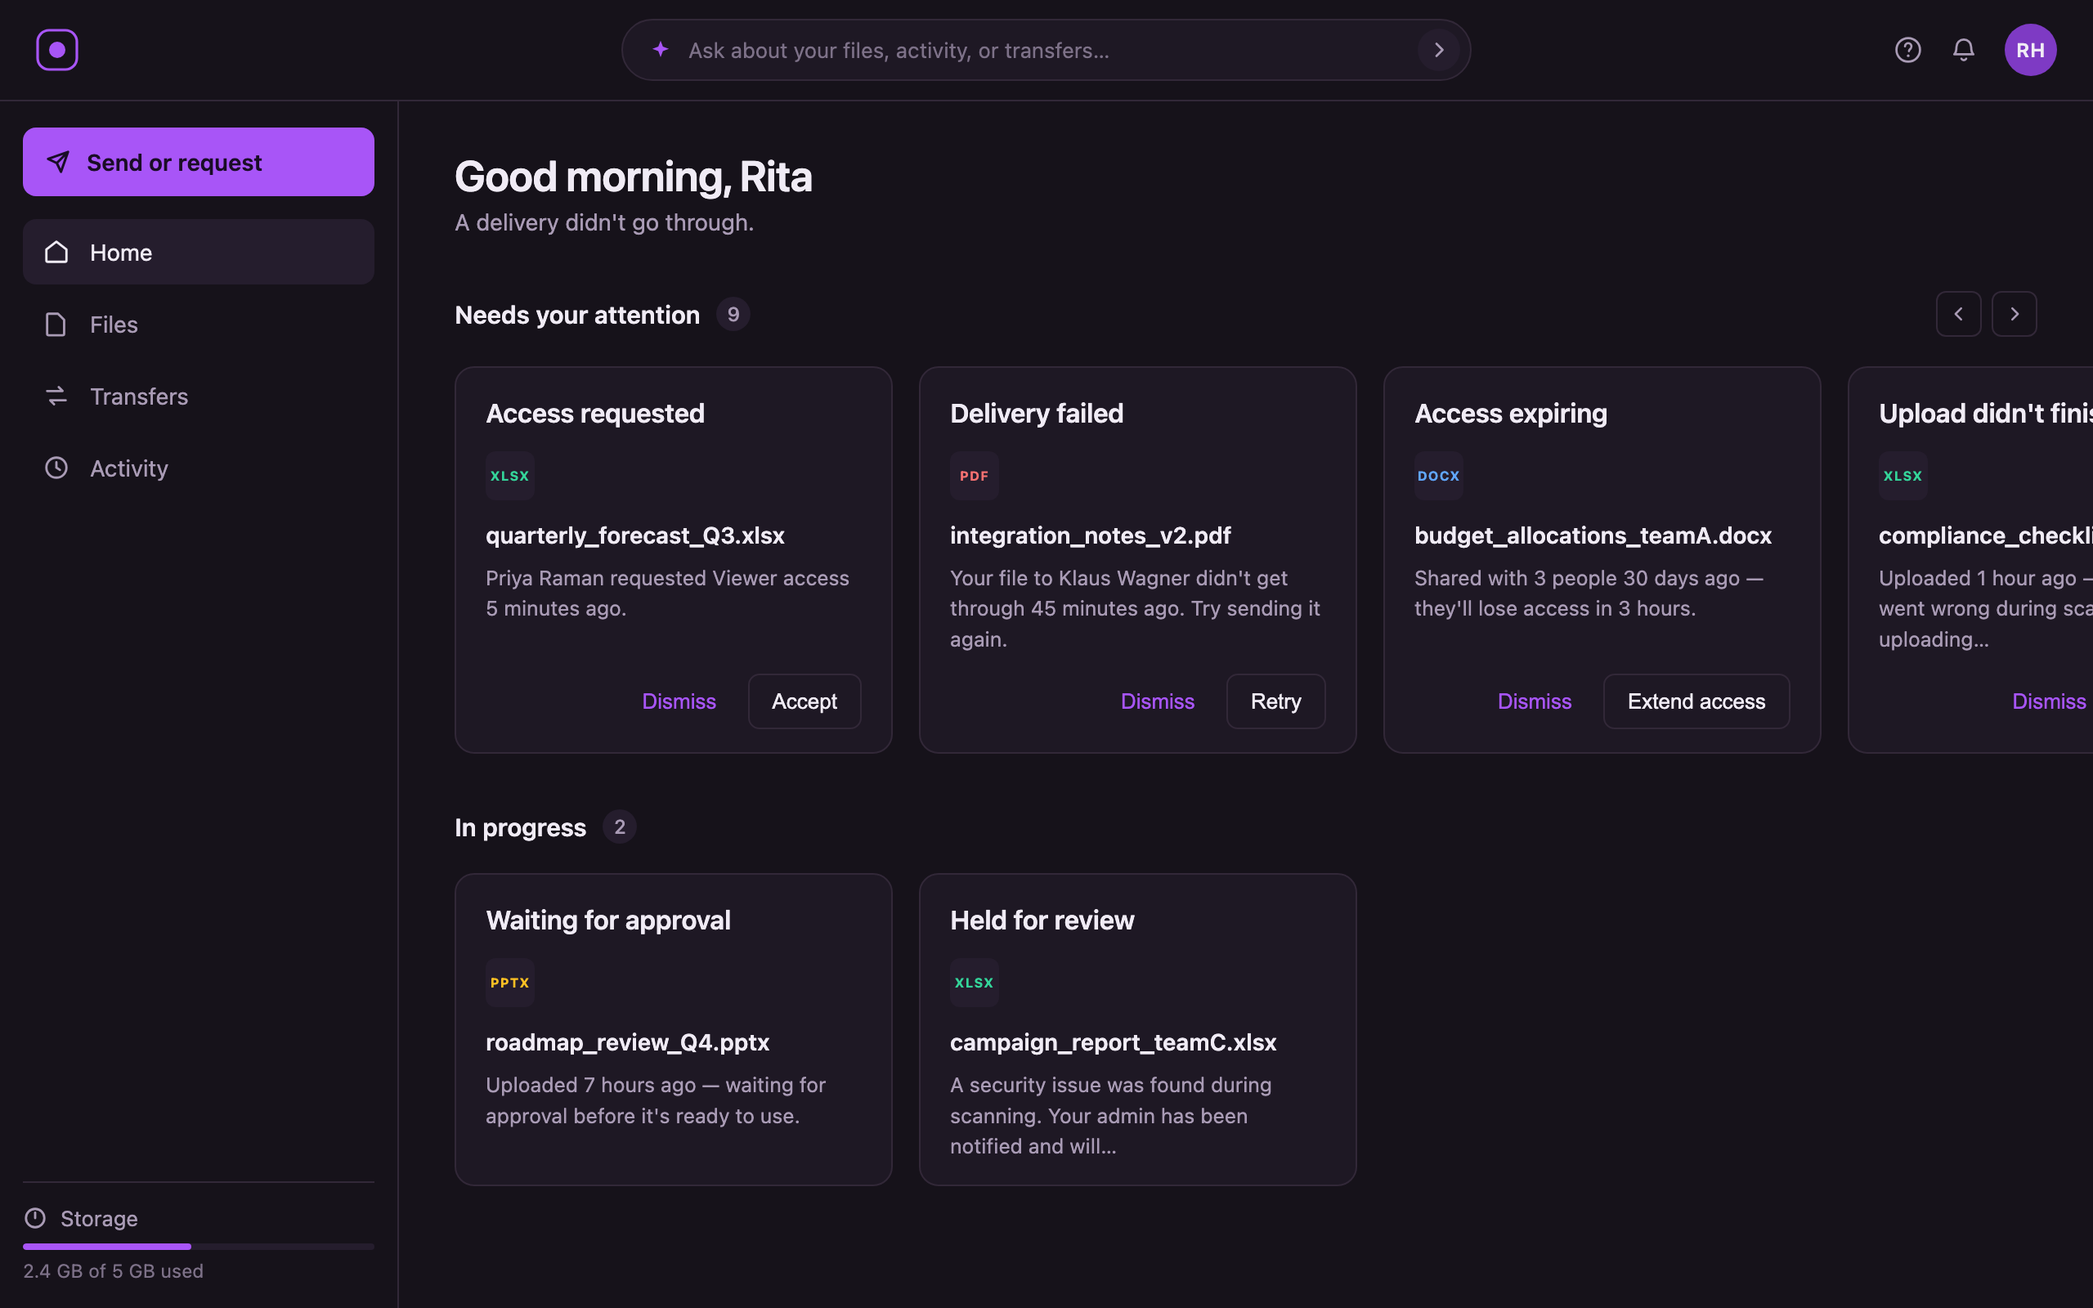
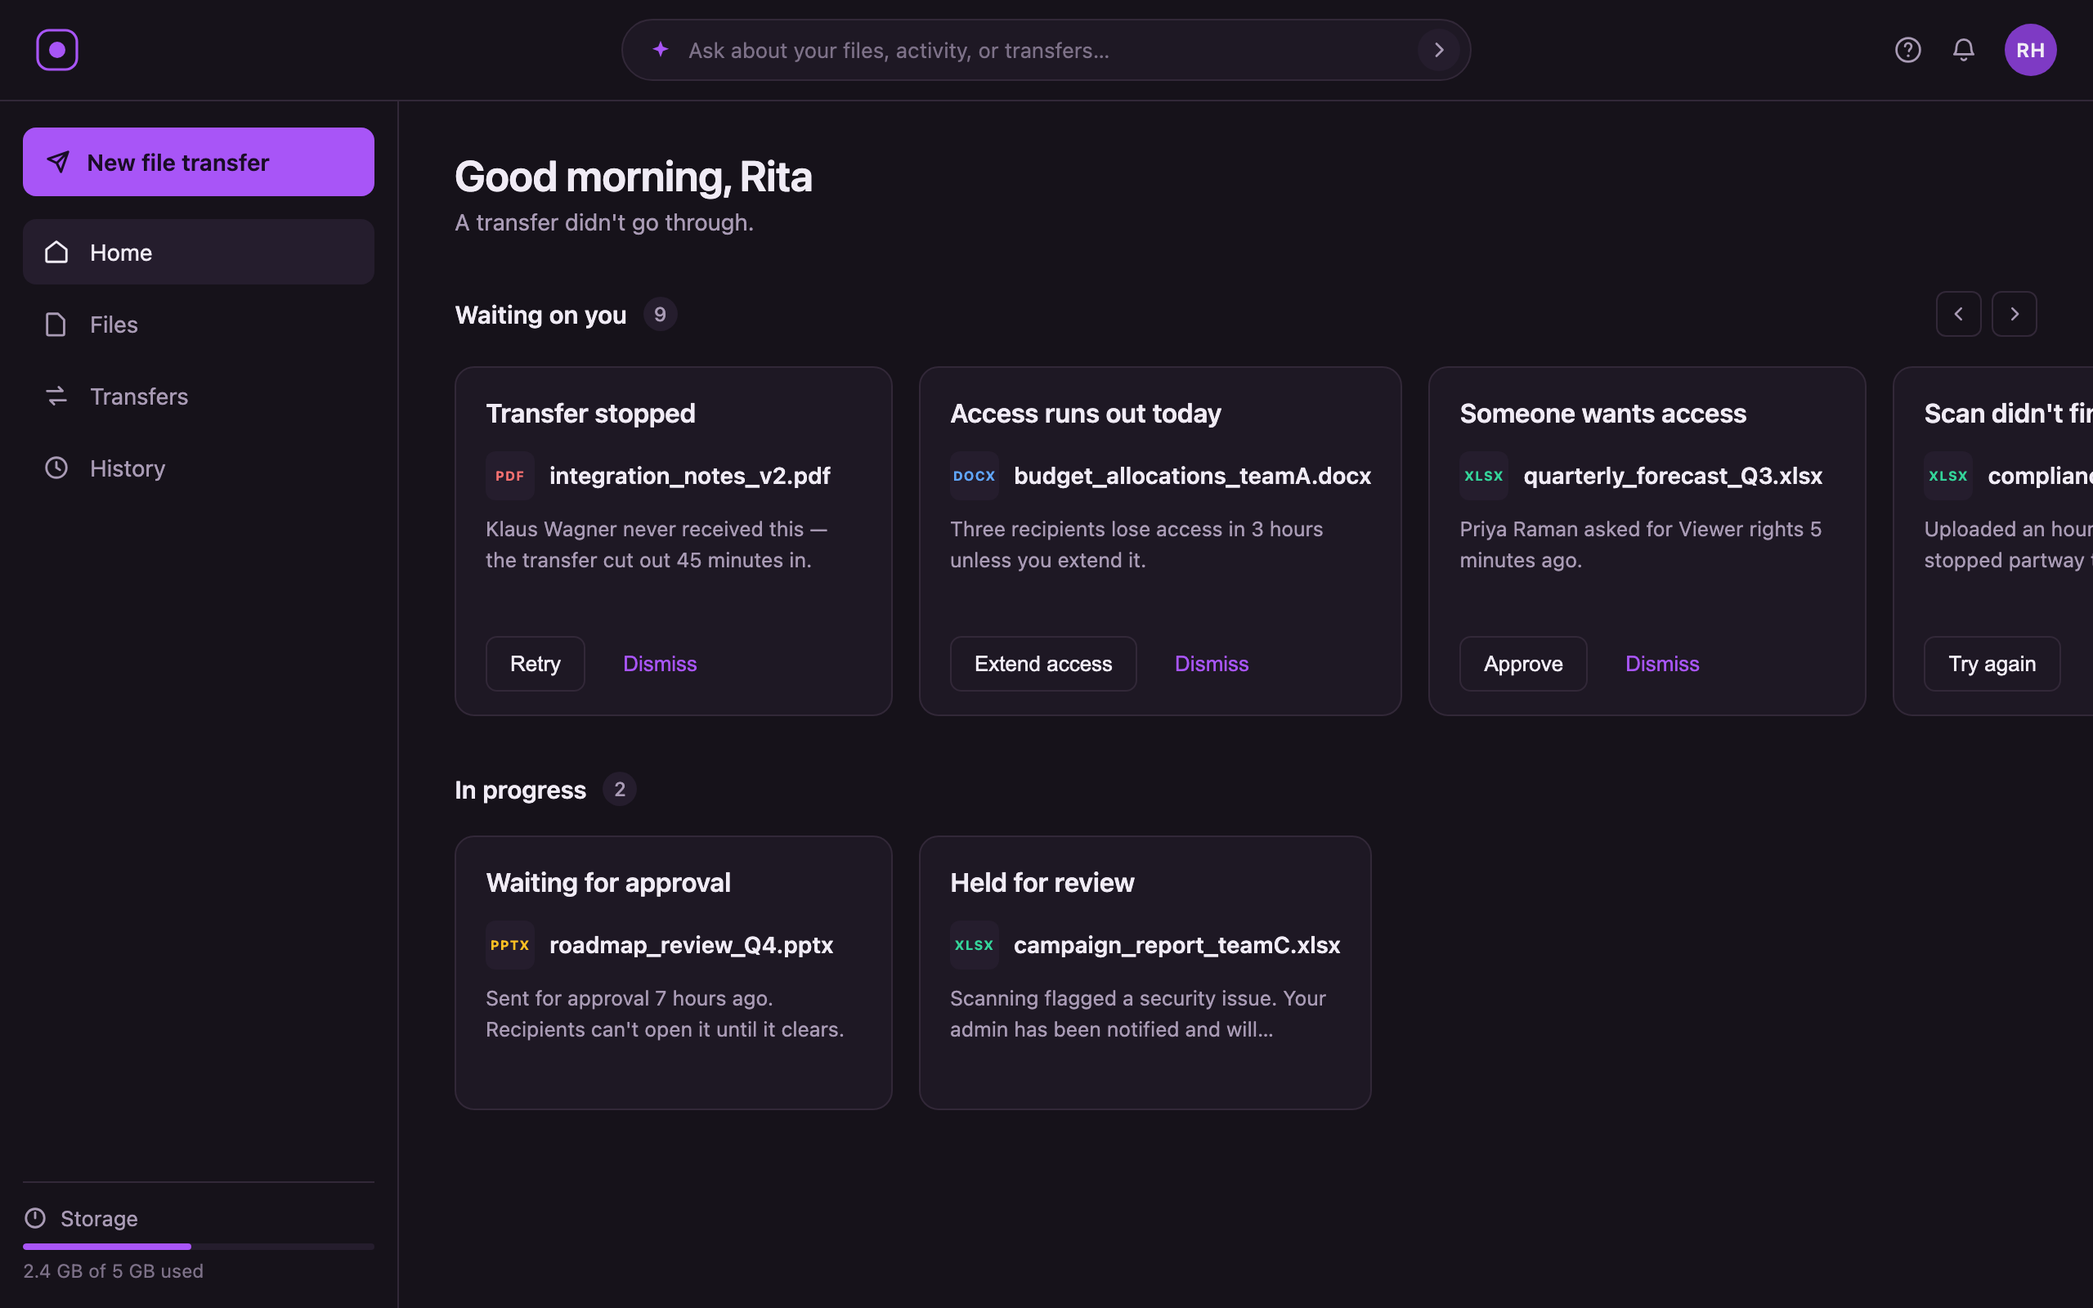
Rework the file sharing dashboard screen
Moves the screen further from the Figma original and tightens the card
layout:

- "Send or request" is now "New file transfer", "Activity" is "History"
- "Needs your attention" is "Waiting on you"
- Attention cards reordered most-urgent-first and recopied
- File type badge sits inline with the filename instead of stacked
  above it, so a card reads as one file row
- Card actions are left-aligned with the outlined action first and
  Dismiss after it
- Filenames truncate with an ellipsis instead of breaking mid-word,
  which was leaving the cards at ragged heights

card.png is regenerated from the same markup at a 1280x800 viewport.

diff --git a/tools/case-study-mockups/secure-file-sharing/screen-dashboard.html b/tools/case-study-mockups/secure-file-sharing/screen-dashboard.html
@@ -4,7 +4,7 @@
 <meta charset="utf-8">
 <link rel="stylesheet" href="base.css">
 <style>
-  body { height: 790px; }
+  body { height: 720px; }
   .attn-row { display: flex; gap: 16px; margin-top: 18px; }
   .card {
     flex: 0 0 268px;
@@ -16,10 +16,18 @@
     min-height: 214px;
   }
   .card h3 { font-size: 16px; font-weight: 600; letter-spacing: -0.1px; }
-  .card .fname { font-size: 14px; font-weight: 600; margin-top: 12px; word-break: break-all; line-height: 1.35; }
-  .card .desc { font-size: 12.5px; color: var(--text-dim); line-height: 1.5; margin-top: 7px; }
-  .card .acts { margin-top: auto; display: flex; justify-content: flex-end; align-items: center; gap: 4px; padding-top: 12px; }
-  .card .filetag { margin-top: 14px; }
+  /* Badge sits inline with the filename rather than stacked above it, so the
+     card reads as one file row instead of three separate stacked blocks. */
+  .card .fileline { display: flex; align-items: center; gap: 9px; margin-top: 14px; min-width: 0; }
+  /* Truncate rather than wrap: a long filename breaking mid-word left the
+     cards at ragged heights and read as a layout bug rather than a filename. */
+  .card .fname {
+    font-size: 14px; font-weight: 600; line-height: 1.35;
+    min-width: 0; overflow: hidden; text-overflow: ellipsis; white-space: nowrap;
+  }
+  .card .desc { font-size: 12.5px; color: var(--text-dim); line-height: 1.5; margin-top: 8px; }
+  .card .acts { margin-top: auto; display: flex; justify-content: flex-start; align-items: center; gap: 8px; padding-top: 14px; }
+  .card .filetag { flex: 0 0 30px; }
   .sec-head { display: flex; align-items: center; gap: 10px; margin-top: 34px; }
   .arrows { margin-left: auto; display: flex; gap: 6px; color: var(--text-dim); }
   .arrows span {
@@ -55,7 +63,7 @@
   <div class="sidebar">
     <div class="cta">
       <svg width="15" height="15" viewBox="0 0 16 16" fill="none"><path d="M14.5 1.5L7.2 8.8M14.5 1.5l-4.6 13-2.7-5.7L1.5 6.1z" stroke="#1a0d26" stroke-width="1.6" stroke-linejoin="round"/></svg>
-      Send or request
+      New file transfer
     </div>
     <div class="navitem active">
       <svg width="17" height="17" viewBox="0 0 18 18" fill="none"><path d="M2.5 7.5L9 2.5l6.5 5v7a1 1 0 01-1 1h-11a1 1 0 01-1-1z" stroke="currentColor" stroke-width="1.5" stroke-linejoin="round"/></svg>
@@ -71,7 +79,7 @@
     </div>
     <div class="navitem">
       <svg width="17" height="17" viewBox="0 0 18 18" fill="none"><circle cx="9" cy="9" r="6.5" stroke="currentColor" stroke-width="1.5"/><path d="M9 5.5V9l2.3 1.5" stroke="currentColor" stroke-width="1.5" stroke-linecap="round"/></svg>
-      Activity
+      History
     </div>
 
     <div class="sidebar-foot">
@@ -86,10 +94,10 @@
 
   <div class="main">
     <h1>Good morning, Rita</h1>
-    <div class="sub">A delivery didn't go through.</div>
+    <div class="sub">A transfer didn't go through.</div>
 
     <div class="sec-head">
-      <span style="font-size:15px;font-weight:600;">Needs your attention</span>
+      <span style="font-size:15px;font-weight:600;">Waiting on you</span>
       <span class="count">9</span>
       <div class="arrows">
         <span><svg width="11" height="11" viewBox="0 0 16 16" fill="none"><path d="M10 3L5 8l5 5" stroke="currentColor" stroke-width="1.8" stroke-linecap="round" stroke-linejoin="round"/></svg></span>
@@ -99,43 +107,53 @@
 
     <div class="attn-row">
       <div class="card">
-        <h3>Access requested</h3>
-        <div class="filetag t-xlsx">XLSX</div>
-        <div class="fname">quarterly_forecast_Q3.xlsx</div>
-        <div class="desc">Priya Raman requested Viewer access 5 minutes ago.</div>
-        <div class="acts"><button class="btn btn-ghost">Dismiss</button><button class="btn">Accept</button></div>
+        <h3>Transfer stopped</h3>
+        <div class="fileline">
+          <div class="filetag t-pdf">PDF</div>
+          <div class="fname">integration_notes_v2.pdf</div>
+        </div>
+        <div class="desc">Klaus Wagner never received this — the transfer cut out 45 minutes in.</div>
+        <div class="acts"><button class="btn">Retry</button><button class="btn btn-ghost">Dismiss</button></div>
       </div>
 
       <div class="card">
-        <h3>Delivery failed</h3>
-        <div class="filetag t-pdf">PDF</div>
-        <div class="fname">integration_notes_v2.pdf</div>
-        <div class="desc">Your file to Klaus Wagner didn't get through 45 minutes ago. Try sending it again.</div>
-        <div class="acts"><button class="btn btn-ghost">Dismiss</button><button class="btn">Retry</button></div>
+        <h3>Access runs out today</h3>
+        <div class="fileline">
+          <div class="filetag t-docx">DOCX</div>
+          <div class="fname">budget_allocations_teamA.docx</div>
+        </div>
+        <div class="desc">Three recipients lose access in 3 hours unless you extend it.</div>
+        <div class="acts"><button class="btn">Extend access</button><button class="btn btn-ghost">Dismiss</button></div>
       </div>
 
       <div class="card">
-        <h3>Access expiring</h3>
-        <div class="filetag t-docx">DOCX</div>
-        <div class="fname">budget_allocations_teamA.docx</div>
-        <div class="desc">Shared with 3 people 30 days ago — they'll lose access in 3 hours.</div>
-        <div class="acts"><button class="btn btn-ghost">Dismiss</button><button class="btn">Extend access</button></div>
+        <h3>Someone wants access</h3>
+        <div class="fileline">
+          <div class="filetag t-xlsx">XLSX</div>
+          <div class="fname">quarterly_forecast_Q3.xlsx</div>
+        </div>
+        <div class="desc">Priya Raman asked for Viewer rights 5 minutes ago.</div>
+        <div class="acts"><button class="btn">Approve</button><button class="btn btn-ghost">Dismiss</button></div>
       </div>
 
       <div class="card">
-        <h3>Upload didn't finish</h3>
-        <div class="filetag t-xlsx">XLSX</div>
-        <div class="fname">compliance_checklist.xlsx</div>
-        <div class="desc">Uploaded 1 hour ago — something went wrong during scanning. Try uploading…</div>
-        <div class="acts"><button class="btn btn-ghost">Dismiss</button><button class="btn">Try again</button></div>
+        <h3>Scan didn't finish</h3>
+        <div class="fileline">
+          <div class="filetag t-xlsx">XLSX</div>
+          <div class="fname">compliance_checklist.xlsx</div>
+        </div>
+        <div class="desc">Uploaded an hour ago, but scanning stopped partway through.</div>
+        <div class="acts"><button class="btn">Try again</button><button class="btn btn-ghost">Dismiss</button></div>
       </div>
 
       <div class="card" style="flex:0 0 200px;">
-        <h3>Cleared after…</h3>
-        <div class="filetag t-xlsx">XLSX</div>
-        <div class="fname">q2_budget_re…</div>
-        <div class="desc">This file was held and cleared by your ad…</div>
-        <div class="acts"><button class="btn btn-ghost">Dismiss</button></div>
+        <h3>Released by ad…</h3>
+        <div class="fileline">
+          <div class="filetag t-pptx">PPTX</div>
+          <div class="fname">q2_budget_re…</div>
+        </div>
+        <div class="desc">Held during scanning, then cleared by yo…</div>
+        <div class="acts"><button class="btn">Open</button></div>
       </div>
     </div>
 
@@ -145,17 +163,21 @@
     </div>
 
     <div class="attn-row">
-      <div class="card" style="min-height:186px;">
+      <div class="card" style="min-height:168px;">
         <h3>Waiting for approval</h3>
-        <div class="filetag t-pptx">PPTX</div>
-        <div class="fname">roadmap_review_Q4.pptx</div>
-        <div class="desc">Uploaded 7 hours ago — waiting for approval before it's ready to use.</div>
+        <div class="fileline">
+          <div class="filetag t-pptx">PPTX</div>
+          <div class="fname">roadmap_review_Q4.pptx</div>
+        </div>
+        <div class="desc">Sent for approval 7 hours ago. Recipients can't open it until it clears.</div>
       </div>
-      <div class="card" style="min-height:186px;">
+      <div class="card" style="min-height:168px;">
         <h3>Held for review</h3>
-        <div class="filetag t-xlsx">XLSX</div>
-        <div class="fname">campaign_report_teamC.xlsx</div>
-        <div class="desc">A security issue was found during scanning. Your admin has been notified and will…</div>
+        <div class="fileline">
+          <div class="filetag t-xlsx">XLSX</div>
+          <div class="fname">campaign_report_teamC.xlsx</div>
+        </div>
+        <div class="desc">Scanning flagged a security issue. Your admin has been notified and will…</div>
       </div>
     </div>
   </div>

diff --git a/tools/case-study-mockups/secure-file-sharing/screen-card.html b/tools/case-study-mockups/secure-file-sharing/screen-card.html
@@ -16,10 +16,18 @@
     min-height: 214px;
   }
   .card h3 { font-size: 16px; font-weight: 600; letter-spacing: -0.1px; }
-  .card .fname { font-size: 14px; font-weight: 600; margin-top: 12px; word-break: break-all; line-height: 1.35; }
-  .card .desc { font-size: 12.5px; color: var(--text-dim); line-height: 1.5; margin-top: 7px; }
-  .card .acts { margin-top: auto; display: flex; justify-content: flex-end; align-items: center; gap: 4px; padding-top: 12px; }
-  .card .filetag { margin-top: 14px; }
+  /* Badge sits inline with the filename rather than stacked above it, so the
+     card reads as one file row instead of three separate stacked blocks. */
+  .card .fileline { display: flex; align-items: center; gap: 9px; margin-top: 14px; min-width: 0; }
+  /* Truncate rather than wrap: a long filename breaking mid-word left the
+     cards at ragged heights and read as a layout bug rather than a filename. */
+  .card .fname {
+    font-size: 14px; font-weight: 600; line-height: 1.35;
+    min-width: 0; overflow: hidden; text-overflow: ellipsis; white-space: nowrap;
+  }
+  .card .desc { font-size: 12.5px; color: var(--text-dim); line-height: 1.5; margin-top: 8px; }
+  .card .acts { margin-top: auto; display: flex; justify-content: flex-start; align-items: center; gap: 8px; padding-top: 14px; }
+  .card .filetag { flex: 0 0 30px; }
   .sec-head { display: flex; align-items: center; gap: 10px; margin-top: 34px; }
   .arrows { margin-left: auto; display: flex; gap: 6px; color: var(--text-dim); }
   .arrows span {
@@ -55,7 +63,7 @@
   <div class="sidebar">
     <div class="cta">
       <svg width="15" height="15" viewBox="0 0 16 16" fill="none"><path d="M14.5 1.5L7.2 8.8M14.5 1.5l-4.6 13-2.7-5.7L1.5 6.1z" stroke="#1a0d26" stroke-width="1.6" stroke-linejoin="round"/></svg>
-      Send or request
+      New file transfer
     </div>
     <div class="navitem active">
       <svg width="17" height="17" viewBox="0 0 18 18" fill="none"><path d="M2.5 7.5L9 2.5l6.5 5v7a1 1 0 01-1 1h-11a1 1 0 01-1-1z" stroke="currentColor" stroke-width="1.5" stroke-linejoin="round"/></svg>
@@ -71,7 +79,7 @@
     </div>
     <div class="navitem">
       <svg width="17" height="17" viewBox="0 0 18 18" fill="none"><circle cx="9" cy="9" r="6.5" stroke="currentColor" stroke-width="1.5"/><path d="M9 5.5V9l2.3 1.5" stroke="currentColor" stroke-width="1.5" stroke-linecap="round"/></svg>
-      Activity
+      History
     </div>
 
     <div class="sidebar-foot">
@@ -86,10 +94,10 @@
 
   <div class="main">
     <h1>Good morning, Rita</h1>
-    <div class="sub">A delivery didn't go through.</div>
+    <div class="sub">A transfer didn't go through.</div>
 
     <div class="sec-head">
-      <span style="font-size:15px;font-weight:600;">Needs your attention</span>
+      <span style="font-size:15px;font-weight:600;">Waiting on you</span>
       <span class="count">9</span>
       <div class="arrows">
         <span><svg width="11" height="11" viewBox="0 0 16 16" fill="none"><path d="M10 3L5 8l5 5" stroke="currentColor" stroke-width="1.8" stroke-linecap="round" stroke-linejoin="round"/></svg></span>
@@ -99,43 +107,53 @@
 
     <div class="attn-row">
       <div class="card">
-        <h3>Access requested</h3>
-        <div class="filetag t-xlsx">XLSX</div>
-        <div class="fname">quarterly_forecast_Q3.xlsx</div>
-        <div class="desc">Priya Raman requested Viewer access 5 minutes ago.</div>
-        <div class="acts"><button class="btn btn-ghost">Dismiss</button><button class="btn">Accept</button></div>
+        <h3>Transfer stopped</h3>
+        <div class="fileline">
+          <div class="filetag t-pdf">PDF</div>
+          <div class="fname">integration_notes_v2.pdf</div>
+        </div>
+        <div class="desc">Klaus Wagner never received this — the transfer cut out 45 minutes in.</div>
+        <div class="acts"><button class="btn">Retry</button><button class="btn btn-ghost">Dismiss</button></div>
       </div>
 
       <div class="card">
-        <h3>Delivery failed</h3>
-        <div class="filetag t-pdf">PDF</div>
-        <div class="fname">integration_notes_v2.pdf</div>
-        <div class="desc">Your file to Klaus Wagner didn't get through 45 minutes ago. Try sending it again.</div>
-        <div class="acts"><button class="btn btn-ghost">Dismiss</button><button class="btn">Retry</button></div>
+        <h3>Access runs out today</h3>
+        <div class="fileline">
+          <div class="filetag t-docx">DOCX</div>
+          <div class="fname">budget_allocations_teamA.docx</div>
+        </div>
+        <div class="desc">Three recipients lose access in 3 hours unless you extend it.</div>
+        <div class="acts"><button class="btn">Extend access</button><button class="btn btn-ghost">Dismiss</button></div>
       </div>
 
       <div class="card">
-        <h3>Access expiring</h3>
-        <div class="filetag t-docx">DOCX</div>
-        <div class="fname">budget_allocations_teamA.docx</div>
-        <div class="desc">Shared with 3 people 30 days ago — they'll lose access in 3 hours.</div>
-        <div class="acts"><button class="btn btn-ghost">Dismiss</button><button class="btn">Extend access</button></div>
+        <h3>Someone wants access</h3>
+        <div class="fileline">
+          <div class="filetag t-xlsx">XLSX</div>
+          <div class="fname">quarterly_forecast_Q3.xlsx</div>
+        </div>
+        <div class="desc">Priya Raman asked for Viewer rights 5 minutes ago.</div>
+        <div class="acts"><button class="btn">Approve</button><button class="btn btn-ghost">Dismiss</button></div>
       </div>
 
       <div class="card">
-        <h3>Upload didn't finish</h3>
-        <div class="filetag t-xlsx">XLSX</div>
-        <div class="fname">compliance_checklist.xlsx</div>
-        <div class="desc">Uploaded 1 hour ago — something went wrong during scanning. Try uploading…</div>
-        <div class="acts"><button class="btn btn-ghost">Dismiss</button><button class="btn">Try again</button></div>
+        <h3>Scan didn't finish</h3>
+        <div class="fileline">
+          <div class="filetag t-xlsx">XLSX</div>
+          <div class="fname">compliance_checklist.xlsx</div>
+        </div>
+        <div class="desc">Uploaded an hour ago, but scanning stopped partway through.</div>
+        <div class="acts"><button class="btn">Try again</button><button class="btn btn-ghost">Dismiss</button></div>
       </div>
 
       <div class="card" style="flex:0 0 200px;">
-        <h3>Cleared after…</h3>
-        <div class="filetag t-xlsx">XLSX</div>
-        <div class="fname">q2_budget_re…</div>
-        <div class="desc">This file was held and cleared by your ad…</div>
-        <div class="acts"><button class="btn btn-ghost">Dismiss</button></div>
+        <h3>Released by ad…</h3>
+        <div class="fileline">
+          <div class="filetag t-pptx">PPTX</div>
+          <div class="fname">q2_budget_re…</div>
+        </div>
+        <div class="desc">Held during scanning, then cleared by yo…</div>
+        <div class="acts"><button class="btn">Open</button></div>
       </div>
     </div>
 
@@ -145,17 +163,21 @@
     </div>
 
     <div class="attn-row">
-      <div class="card" style="min-height:186px;">
+      <div class="card" style="min-height:168px;">
         <h3>Waiting for approval</h3>
-        <div class="filetag t-pptx">PPTX</div>
-        <div class="fname">roadmap_review_Q4.pptx</div>
-        <div class="desc">Uploaded 7 hours ago — waiting for approval before it's ready to use.</div>
+        <div class="fileline">
+          <div class="filetag t-pptx">PPTX</div>
+          <div class="fname">roadmap_review_Q4.pptx</div>
+        </div>
+        <div class="desc">Sent for approval 7 hours ago. Recipients can't open it until it clears.</div>
       </div>
-      <div class="card" style="min-height:186px;">
+      <div class="card" style="min-height:168px;">
         <h3>Held for review</h3>
-        <div class="filetag t-xlsx">XLSX</div>
-        <div class="fname">campaign_report_teamC.xlsx</div>
-        <div class="desc">A security issue was found during scanning. Your admin has been notified and will…</div>
+        <div class="fileline">
+          <div class="filetag t-xlsx">XLSX</div>
+          <div class="fname">campaign_report_teamC.xlsx</div>
+        </div>
+        <div class="desc">Scanning flagged a security issue. Your admin has been notified and will…</div>
       </div>
     </div>
   </div>
